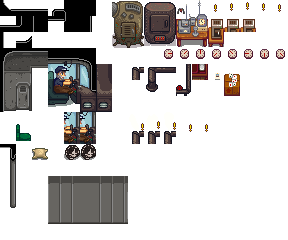
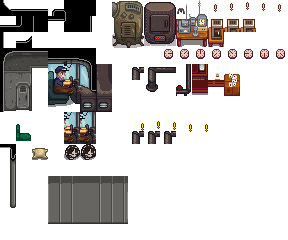
Added seat on bed sprite

Changed region(s): [[0.6562, 0.3208, 0.7812, 0.4083]]

diff --git a/FishingTrawler/Framework/FishingTrawler.cs b/FishingTrawler/Framework/FishingTrawler.cs
@@ -323,6 +323,14 @@ namespace FishingTrawler
                     data[ModDataKeys.MAIL_FLAG_MURPHY_FOUND_GINGER_ISLAND] = string.Format(FishingTrawler.i18n.Get("letter.island_murphy"), Game1.MasterPlayer.modData[ModDataKeys.MURPHY_DAY_TO_APPEAR]);
                 });
             }
+            else if (e.NameWithoutLocale.IsEquivalentTo("Data/ChairTiles"))
+            {
+                e.Edit(asset =>
+                {
+                    var data = asset.AsDictionary<string, string>().Data;
+                    data["TrawlerCabin/12/5"] = "1/1/down/default/-1/-1/false";
+                });
+            }
         }
 
         private void OnUpdateTicking(object sender, UpdateTickingEventArgs e)
